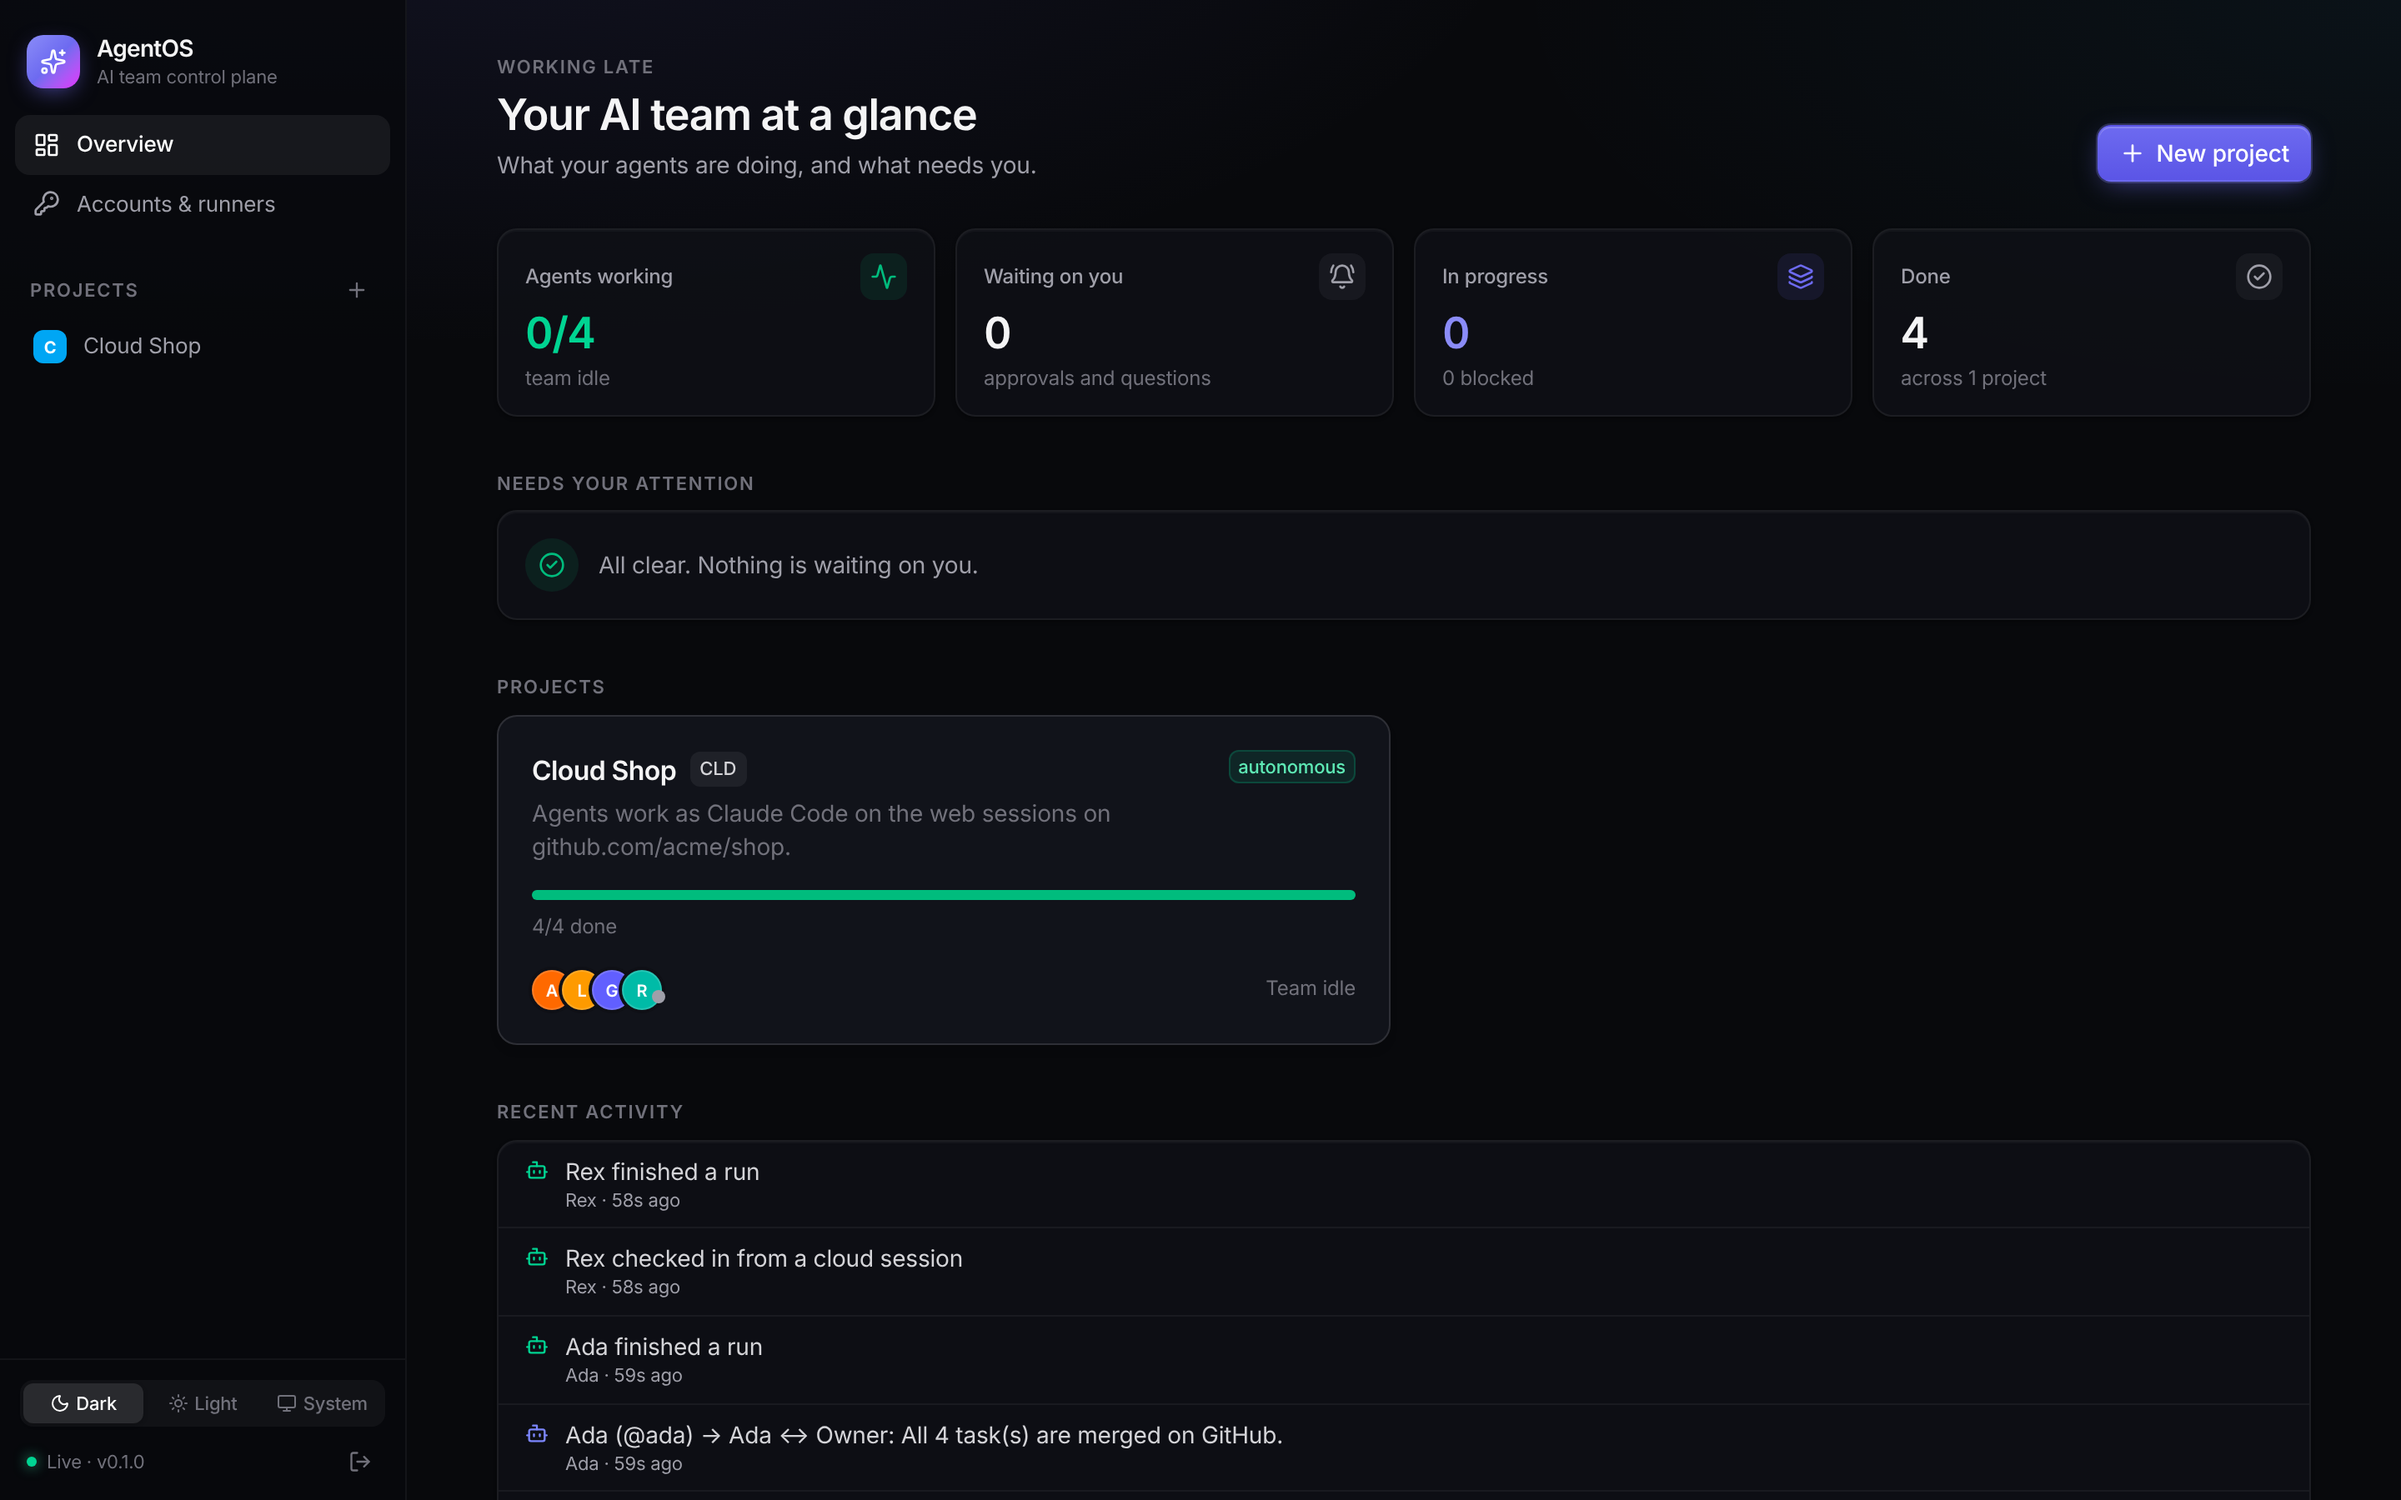
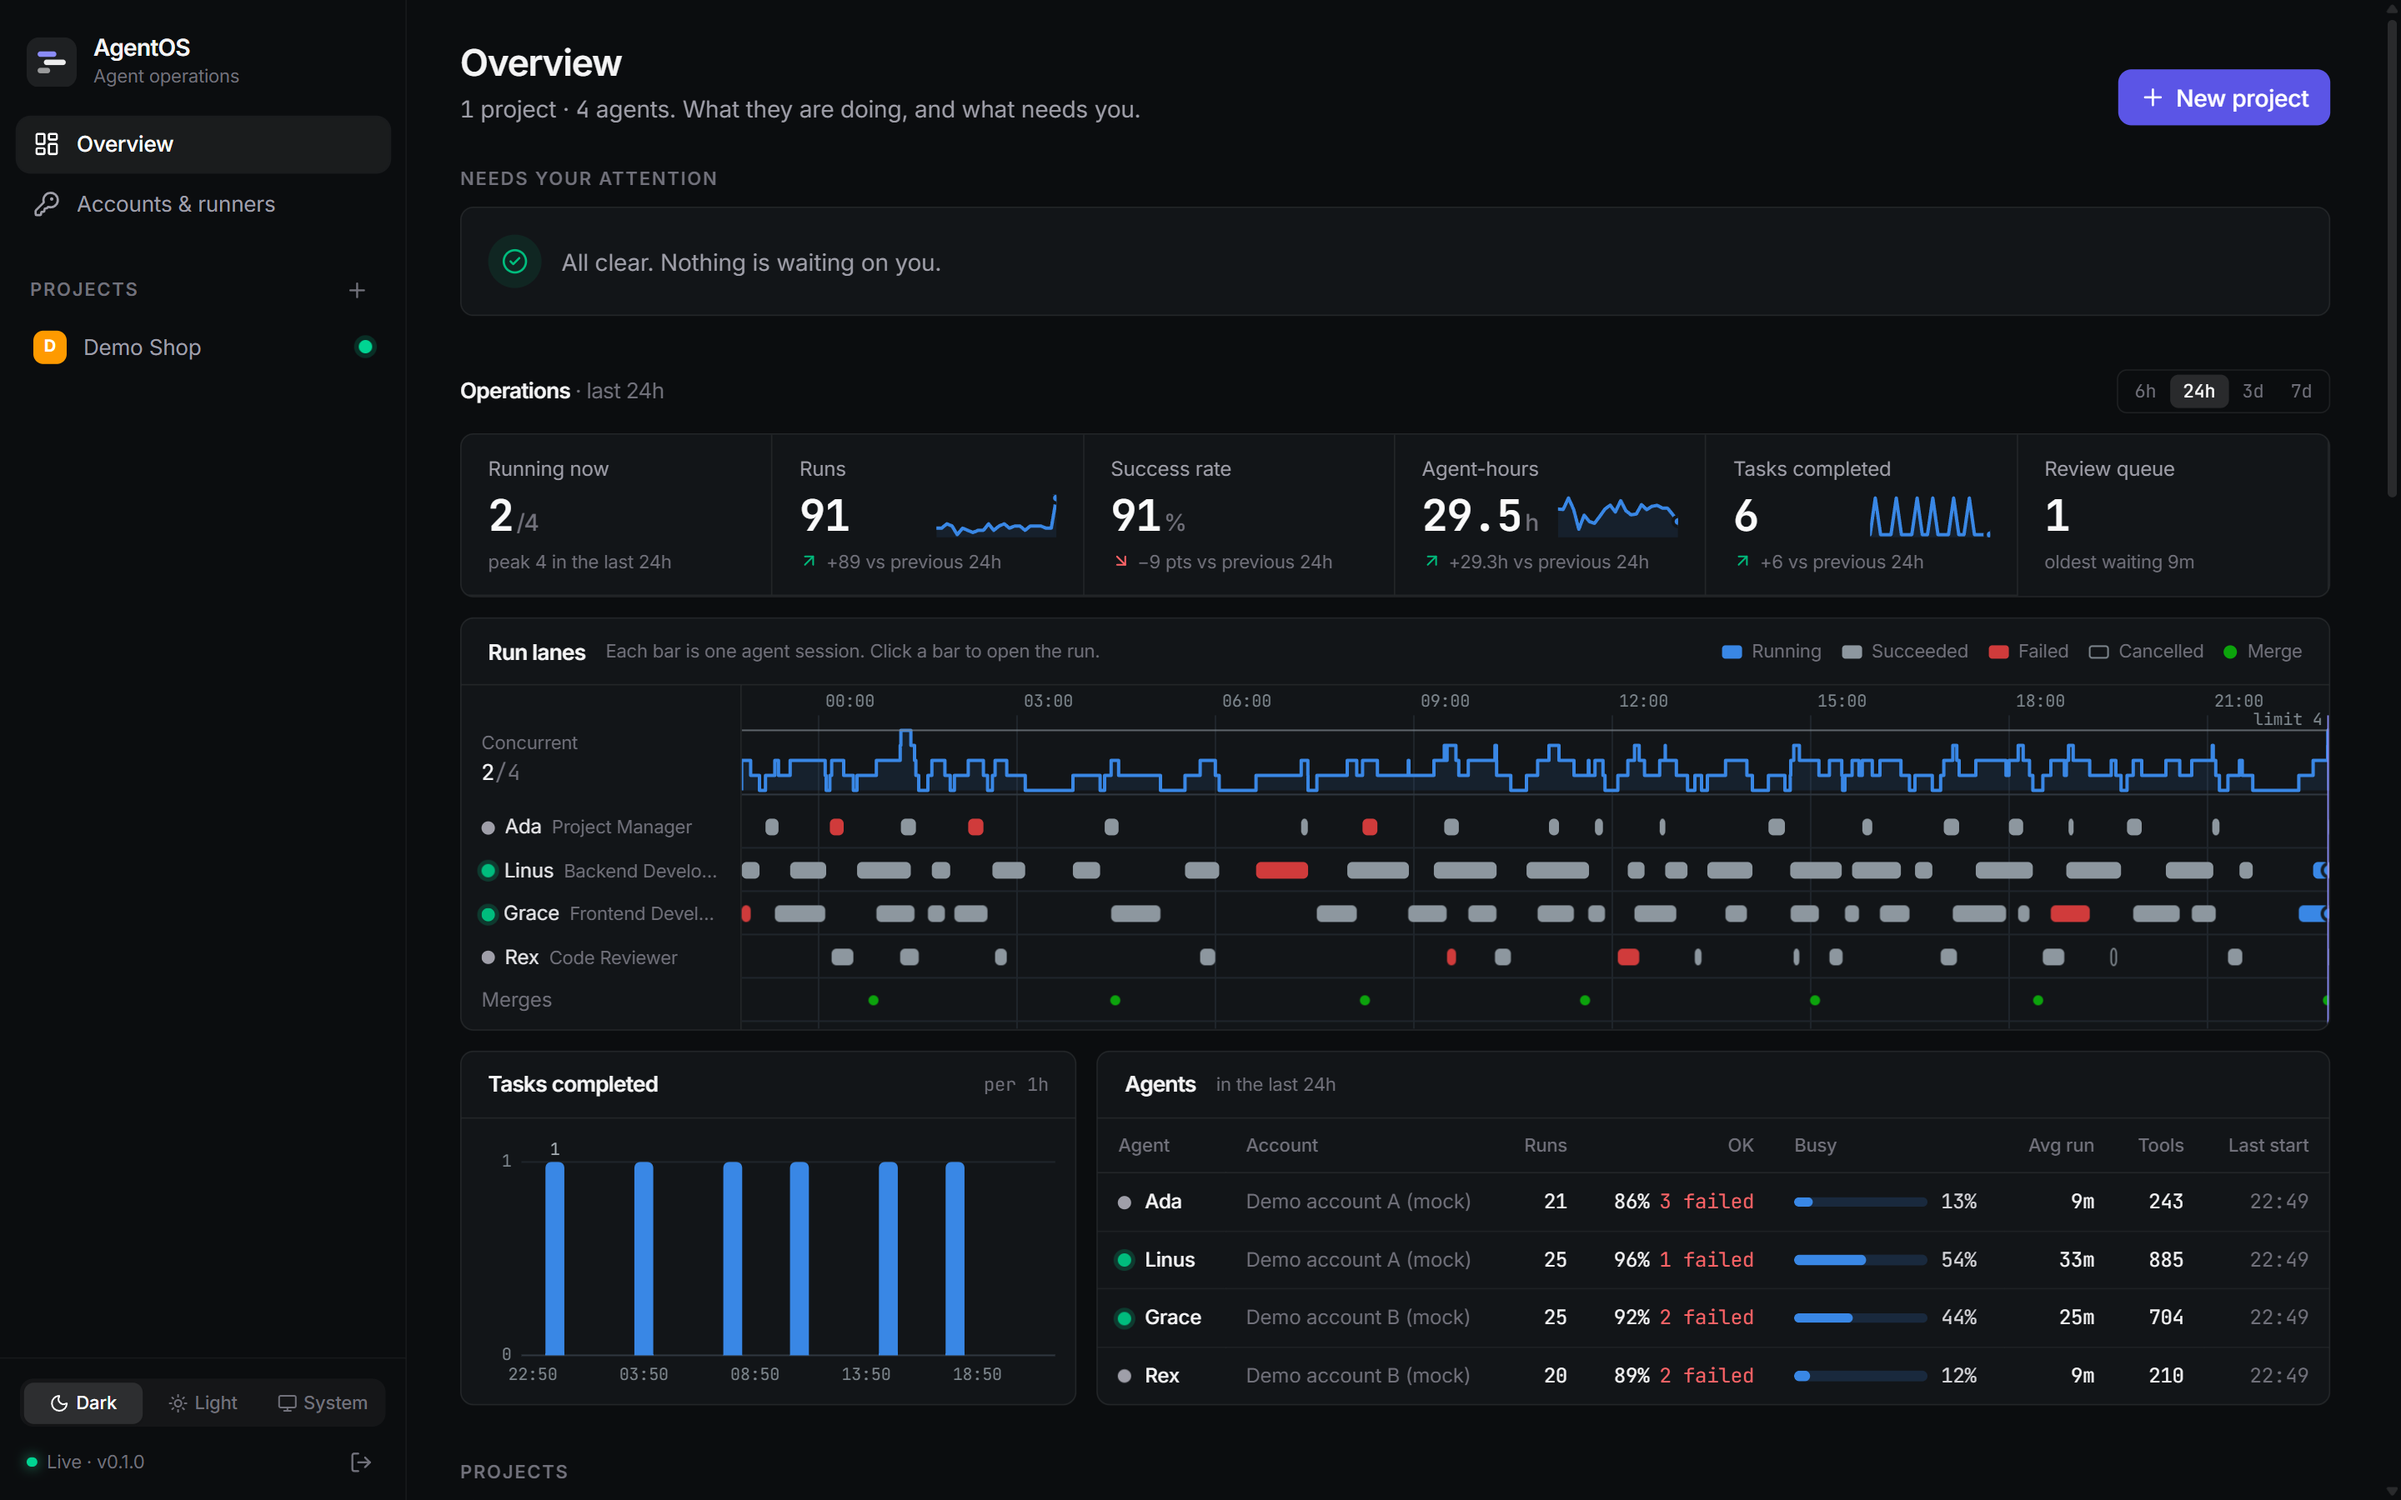
README: new screenshots of the operations view and refreshed pages
Captured at 2880x1800 from the bundled demo project (mock agents) with a
simulated day of activity, so the run lanes and KPIs have data. The
README leads with the operations view and says the data is a demo.

diff --git a/README.md b/README.md
@@ -16,7 +16,9 @@ You talk to an AI project manager. It plans, splits the work into tasks, hands t
 
 [Quick start](#-quick-start) · [How it works](#-how-it-works) · [Cloud mode](docs/cloud.md) · [Deploy](docs/operations.md) · [Architecture](docs/architecture.md) · [Roadmap](docs/roadmap.md)
 
-<img src="docs/screenshots/chat.png" alt="Talking to the AI project manager in the AgentOS dashboard" width="900" />
+<img src="docs/screenshots/overview.png" alt="AgentOS operations view: KPIs, run lanes per agent, tasks completed and an agent table" width="900" />
+
+<sub>Operations view with the bundled demo project (mock agents, simulated day of activity).</sub>
 
 </div>
 
@@ -42,11 +44,12 @@ Running several coding agents at once turns you into a switchboard: copy this pl
 | **Approvals and a permission gate** | Agents must ask before architectural, security, destructive or production-impacting actions. Risky tool calls are intercepted and wait for you. |
 | **Guardrails** | Loop guard for agent ping-pong, hourly run budgets, per-account concurrency, bounded auto-continuation, a global pause. |
 | **Reliability** | Usage limits pause an account until its window resets. Lost or crashed runs hand their work back. Sessions resume when possible and rebuild context when not. |
+| **Operations view** | Run lanes per agent on a time axis (see concurrency, idle gaps and failures at a glance), KPIs with deltas, tasks completed, and per-agent utilisation. |
 | **Dashboard** | Attention center, board, task detail, chat, agents, approvals and decision log, runs with live logs and "why it ran", activity, docs, git, settings. Works on phones too. |
 
 <table>
   <tr>
-    <td width="50%"><img src="docs/screenshots/overview.png" alt="Attention center" /><p align="center"><sub><b>Attention center</b>: what needs you, at a glance</sub></p></td>
+    <td width="50%"><img src="docs/screenshots/chat.png" alt="Chat with the project manager" /><p align="center"><sub><b>Chat</b>: give the PM an objective, get a plan back</sub></p></td>
     <td width="50%"><img src="docs/screenshots/task.png" alt="Task detail" /><p align="center"><sub><b>Task detail</b>: review, branch, commits, discussion</sub></p></td>
   </tr>
   <tr>
